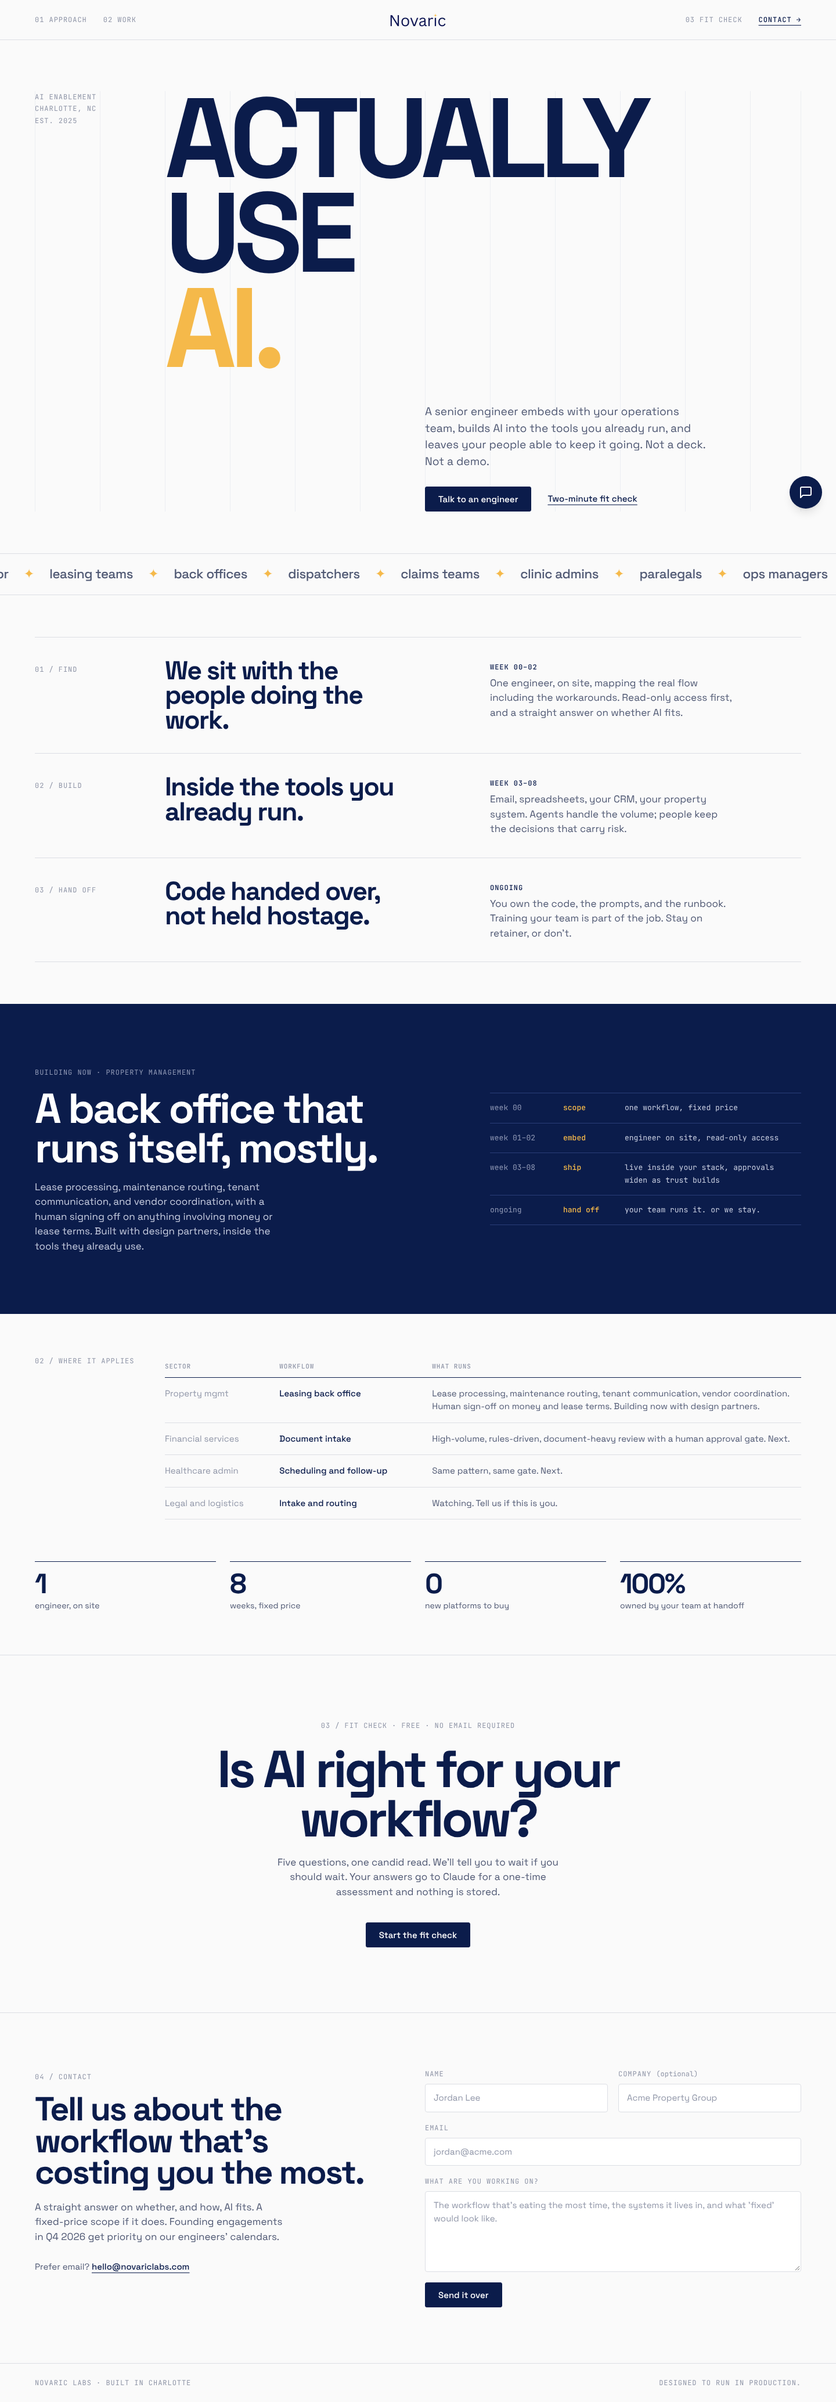
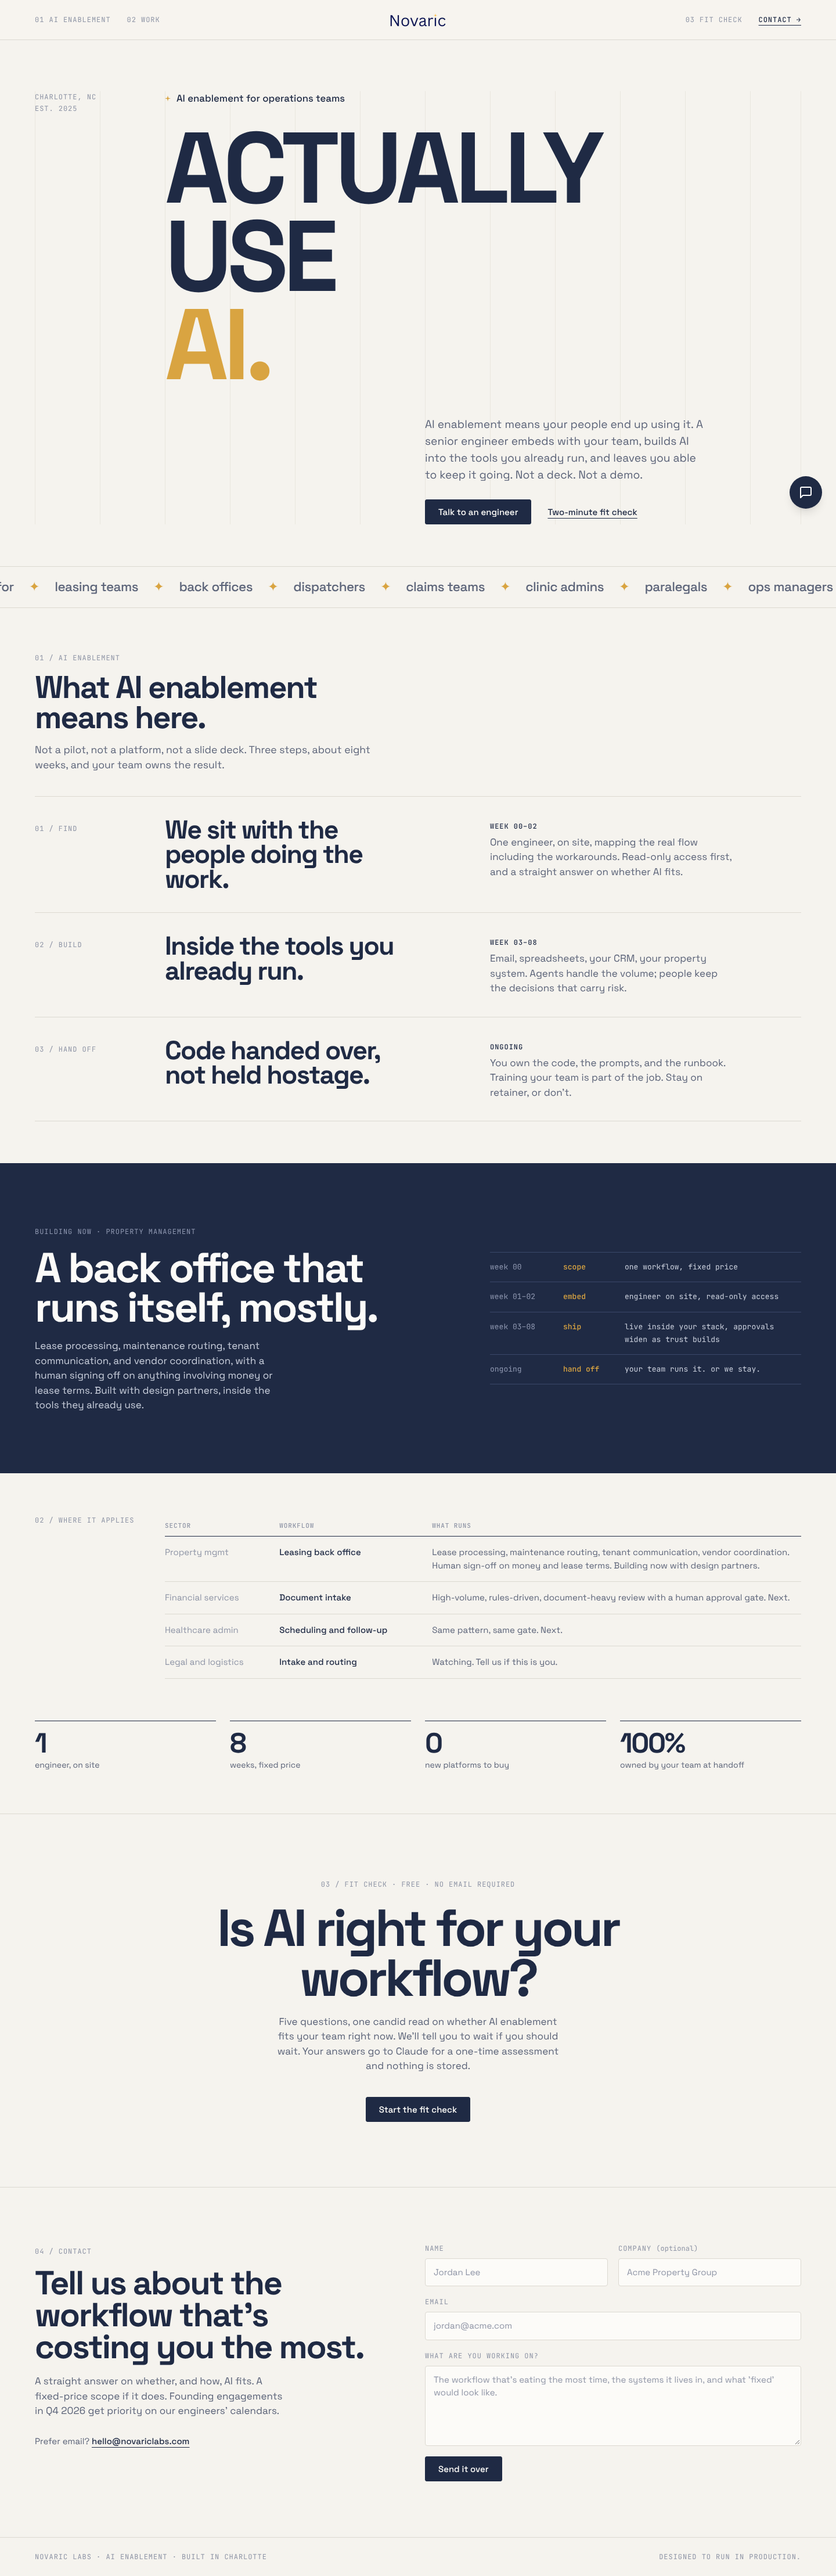
Promote AI enablement and soften the palette
Hero gets a visible "AI enablement for operations teams" eyebrow and a
lede that defines the term; the steps section gains a heading, the nav
link reads "01 AI enablement", and the fit check and footer name it.

Palette moves from stark navy on white to warm stone paper, a softer
slate navy, and a muted gold. The stacked headline is slightly smaller
and less tightly tracked so the block of caps reads calmer.

Claude-Session: https://claude.ai/code/session_013pzgRyT7PWjBGA45tKFZWZ

diff --git a/app/globals.css b/app/globals.css
@@ -7,19 +7,19 @@
    Tailwind maps these in tailwind.config.ts so they live in one place.
    ========================================================================= */
 :root {
-  --ink: #0b1c4b;
-  --ink-2: #122758;
-  --ink-soft: #4f5873;
-  --ink-dim: #9096a8;
-  --paper: #fafafa;
-  --white: #ffffff;
-  --line: #dcdee4;
-  --grid: #eceef2;
-  --gold: #f5b94a;
+  --ink: #1f2a44;
+  --ink-2: #2a3760;
+  --ink-soft: #5b6378;
+  --ink-dim: #8f95a6;
+  --paper: #f5f3ee;
+  --white: #fcfbf8;
+  --line: #dcd9d1;
+  --grid: #e9e6de;
+  --gold: #d9a441;
   --gold-ink: #2b1d00;
-  --on-ink-soft: #c7cde0;
-  --on-ink-dim: #8f98b5;
-  --on-ink-line: #2a3d78;
+  --on-ink-soft: #c9cfdc;
+  --on-ink-dim: #8e97b0;
+  --on-ink-line: #3a4769;
   --gutter: 24px;
 }
 
@@ -158,7 +158,7 @@ a {
   position: sticky;
   top: 0;
   z-index: 40;
-  background: rgba(250, 250, 250, 0.92);
+  background: rgba(245, 243, 238, 0.92);
   backdrop-filter: blur(10px);
   border-bottom: 1px solid var(--line);
 }
@@ -234,12 +234,48 @@ a {
   grid-row: 1;
   line-height: 1.7;
 }
+.hero .eyebrow {
+  grid-column: 3 / 13;
+  grid-row: 1;
+  align-self: start;
+  margin-bottom: 28px;
+  display: inline-flex;
+  align-items: center;
+  gap: 10px;
+  font-size: 1.05rem;
+  font-weight: 500;
+  color: var(--ink);
+}
+.hero .eyebrow .dot {
+  width: 10px;
+  height: 10px;
+  background: var(--gold);
+  clip-path: polygon(50% 0, 60% 40%, 100% 50%, 60% 60%, 50% 100%, 40% 60%, 0 50%, 40% 40%);
+}
+.hero h1 {
+  margin-top: 56px;
+}
+.section-head {
+  grid-column: 1 / 13;
+  padding-bottom: 40px;
+}
+.section-head h2 {
+  font-size: clamp(2rem, 4vw, 3.4rem);
+  margin-top: 14px;
+  max-width: 18ch;
+}
+.section-head p {
+  color: var(--ink-soft);
+  margin-top: 16px;
+  max-width: 52ch;
+  font-size: 1.1rem;
+}
 .hero h1 {
   grid-column: 3 / 13;
   grid-row: 1;
-  font-size: clamp(4rem, 13.5vw, 13rem);
-  line-height: 0.84;
-  letter-spacing: -0.06em;
+  font-size: clamp(3.6rem, 12vw, 11.5rem);
+  line-height: 0.88;
+  letter-spacing: -0.05em;
   text-transform: uppercase;
 }
 .hero h1 span {
@@ -277,6 +313,14 @@ a {
     grid-column: 1 / 13;
     grid-row: auto;
     margin-bottom: 20px;
+  }
+  .hero .eyebrow {
+    grid-column: 1 / 13;
+    grid-row: auto;
+    margin-bottom: 16px;
+  }
+  .hero h1 {
+    margin-top: 0;
   }
   .hero h1,
   .hero .lede,

diff --git a/components/site/Hero.tsx b/components/site/Hero.tsx
@@ -8,11 +8,13 @@ export default function Hero() {
           ))}
         </div>
         <div className="idx mono">
-          AI enablement
-          <br />
           Charlotte, NC
           <br />
           Est. 2025
+        </div>
+        <div className="eyebrow">
+          <span className="dot" aria-hidden="true" />
+          AI enablement for operations teams
         </div>
         <h1>
           <span>Actually</span>
@@ -20,9 +22,9 @@ export default function Hero() {
           <span className="gold">AI.</span>
         </h1>
         <p className="lede">
-          A senior engineer embeds with your operations team, builds AI into the
-          tools you already run, and leaves your people able to keep it going.
-          Not a deck. Not a demo.
+          AI enablement means your people end up using it. A senior engineer
+          embeds with your team, builds AI into the tools you already run, and
+          leaves you able to keep it going. Not a deck. Not a demo.
         </p>
         <div className="actions">
           <a className="btn fill" href="#contact">

diff --git a/components/site/Steps.tsx b/components/site/Steps.tsx
@@ -21,8 +21,18 @@ const STEPS: { n: string; title: string; when: string; body: string }[] = [
 
 export default function Steps() {
   return (
-    <section id="approach">
+    <section id="enablement">
       <div className="wrap">
+        <div className="grid">
+          <div className="section-head">
+            <span className="mono">01 / AI enablement</span>
+            <h2>What AI enablement means here.</h2>
+            <p>
+              Not a pilot, not a platform, not a slide deck. Three steps, about
+              eight weeks, and your team owns the result.
+            </p>
+          </div>
+        </div>
         {STEPS.map((s) => (
           <div className="grid row" key={s.n}>
             <span className="n mono">{s.n}</span>

diff --git a/components/site/FitCheck.tsx b/components/site/FitCheck.tsx
@@ -130,9 +130,9 @@ export default function FitCheck() {
         </span>
         <h2>Is AI right for your workflow?</h2>
         <p>
-          Five questions, one candid read. We&apos;ll tell you to wait if you
-          should wait. Your answers go to Claude for a one-time assessment and
-          nothing is stored.
+          Five questions, one candid read on whether AI enablement fits your
+          team right now. We&apos;ll tell you to wait if you should wait. Your
+          answers go to Claude for a one-time assessment and nothing is stored.
         </p>
 
         {!started && !result && (

diff --git a/components/site/Nav.tsx b/components/site/Nav.tsx
@@ -9,7 +9,7 @@ export default function Nav() {
     <header className="nav">
       <div className="wrap grid">
         <nav className="l mono" aria-label="Primary">
-          <a href="#approach">01 Approach</a>
+          <a href="#enablement">01 AI enablement</a>
           <a href="#work">02 Work</a>
         </nav>
         <a className="brand" href="#top" aria-label="Novaric Labs, back to top">

diff --git a/components/site/Footer.tsx b/components/site/Footer.tsx
@@ -2,7 +2,7 @@ export default function Footer() {
   return (
     <footer className="footer">
       <div className="wrap grid mono">
-        <span>Novaric Labs · Built in Charlotte</span>
+        <span>Novaric Labs · AI enablement · Built in Charlotte</span>
         <span>Designed to run in production.</span>
       </div>
     </footer>
